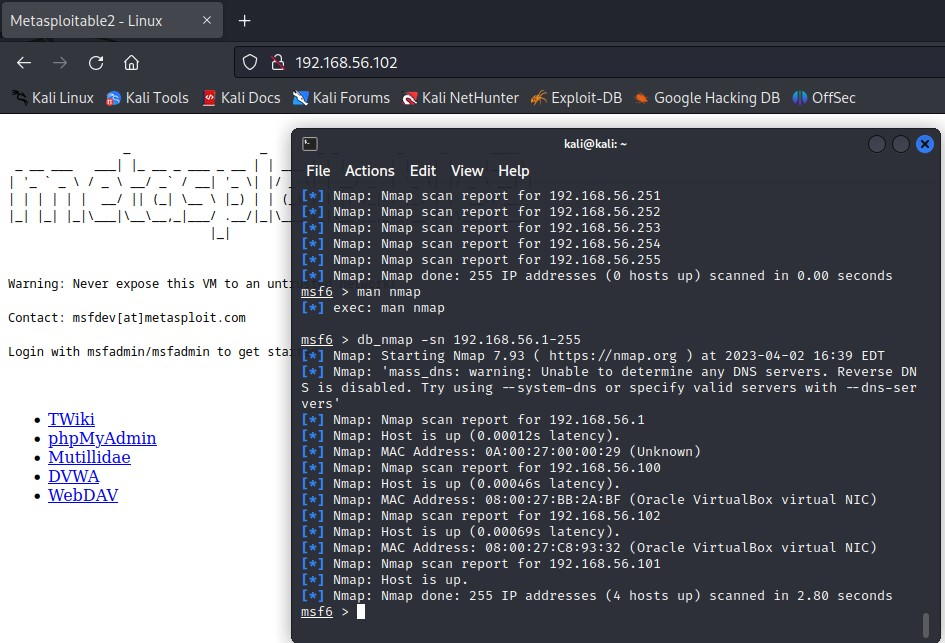
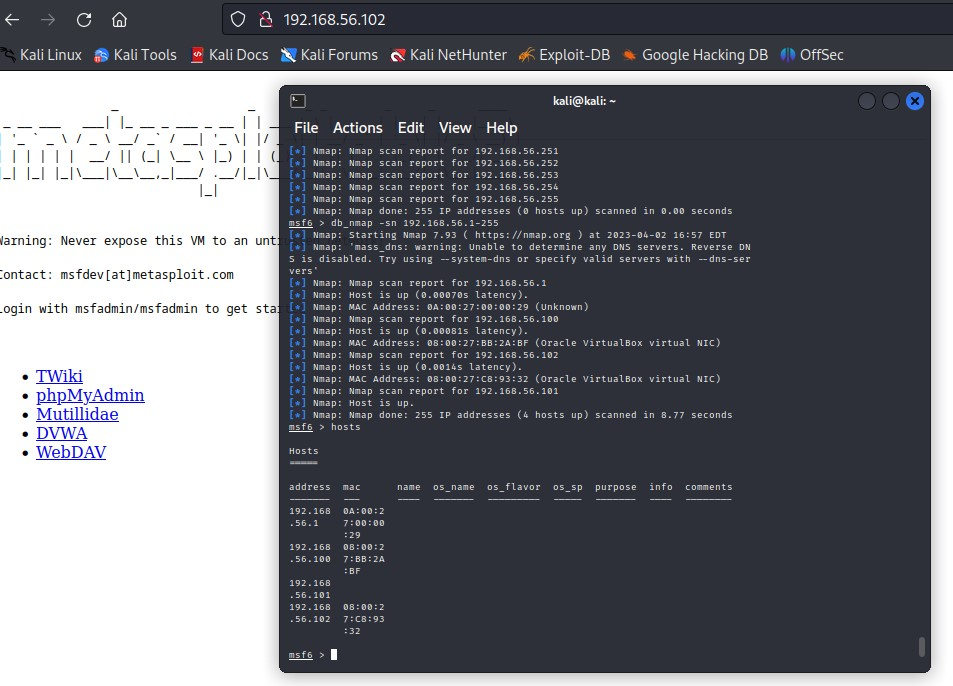
new img

diff --git a/H1.md b/H1.md
@@ -40,13 +40,18 @@ cheked the ip address of metasploit with iconfig, and then pinged the metasploit
 
 # Finding metasploitable with portscanning
 
-Started metasploit
+Started metasploit. 
 
     $kali sudo msfdb run
 
-Metsploit first created a db for the program and started metasploits cmd prompt
+Metsploit first created a db for the program and started metasploits cmd prompt.
+First created myself a workspace, named it h1. Then switched using h1-workspace.
 
+    msf6 > workspace - a h1 ( -a adds a workplace )
+    msf6 > workspace h1 ( selects the workspace )
+    msf6 > workspace ( cheked the current workspace in use -> asterix+red )
     msf6 > db_nmap -sn 192.168.56.1-255
+    msf6 > hosts
 
 The db part of command stores the scan result in database and -sn means ping scan ( source: man nmap )
 From the scan result picked up the ip and connected to it via browser
